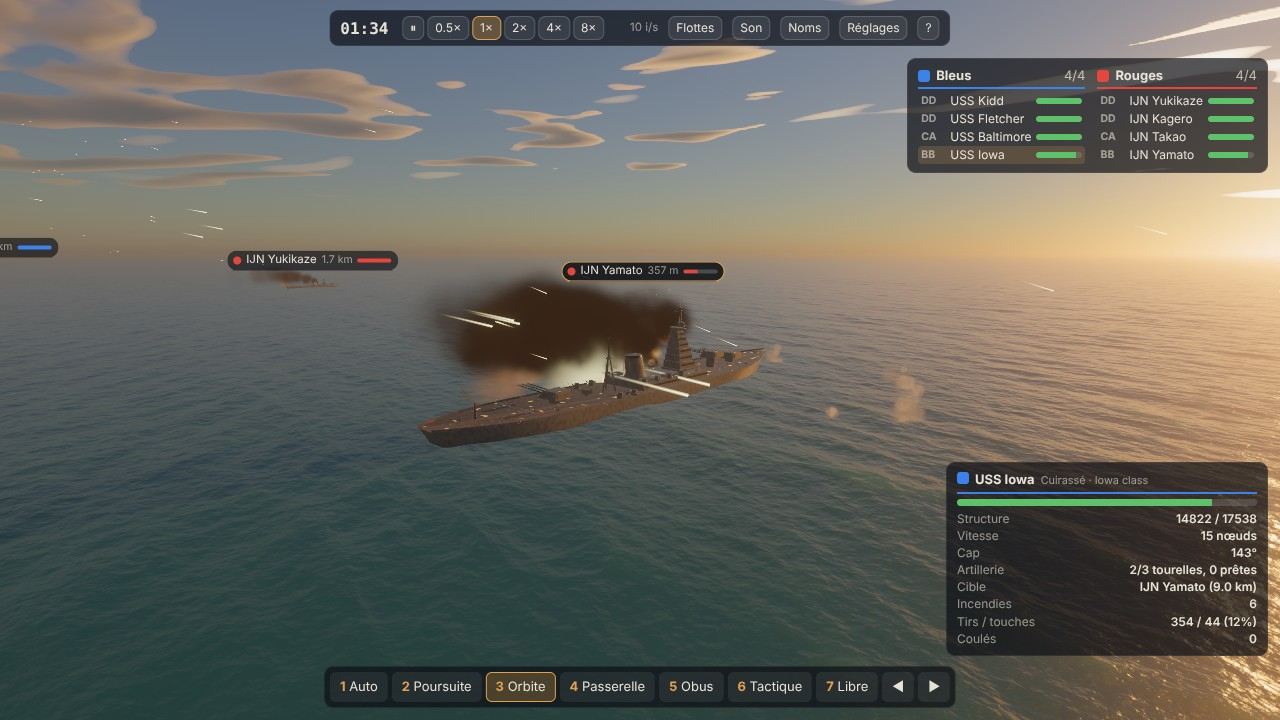
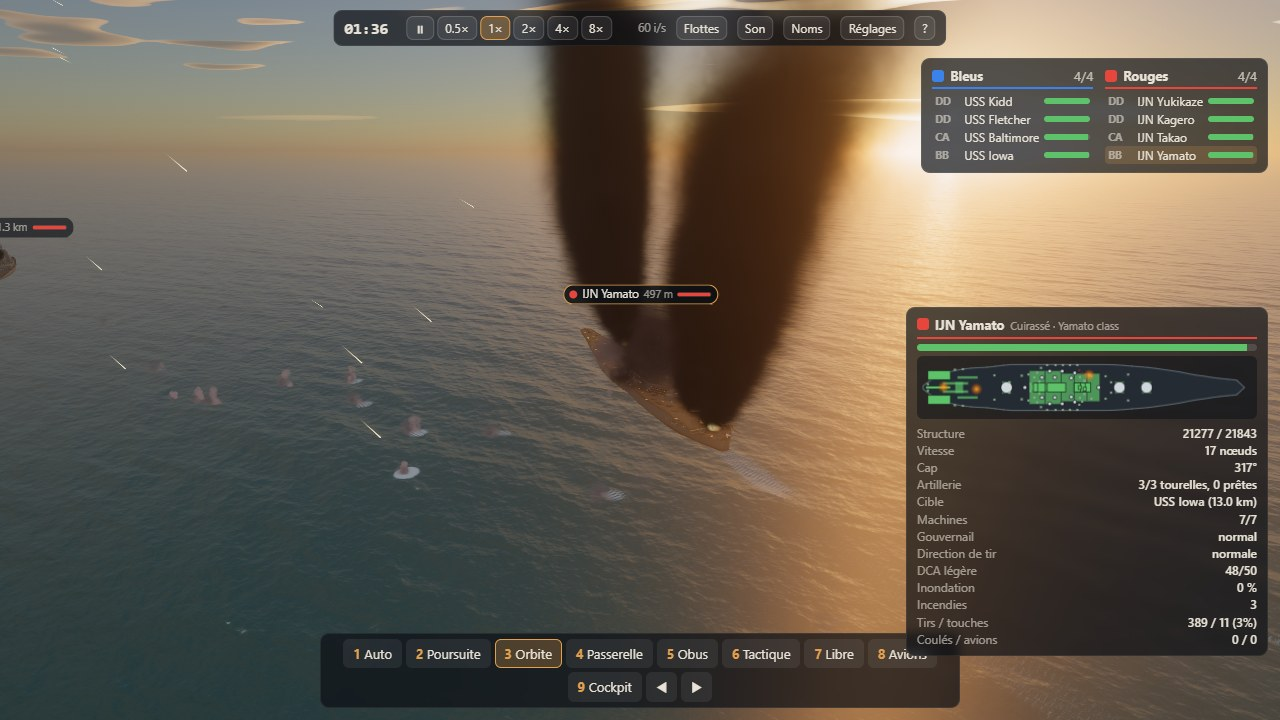
README pictures retaken with the 0.1.0 models (tools/screenshots.mjs)

diff --git a/README.md b/README.md
@@ -140,7 +140,7 @@ Chaque porte-avions embarque les appareils de sa nation, modélisés d'après le
 **Ju 87 Stuka** (avec sa sirène) et **Fi 167** (Allemagne), **LN.401** et **PL.10** (France), **Re.2001** (Italie).
 Les croiseurs et cuirassés ont aussi leur hydravion sur la catapulte (Kingfisher, Walrus, Arado 196...).
 
-| Les appareils (SBD, TBF, Swordfish, Stuka) | Torpilleur à basse altitude | DCA et fumée de combat |
+| Les appareils (SBD, TBF, Swordfish, Stuka) | Torpilleur à basse altitude | Bombardiers en piqué, DCA et fumée de combat |
 |---|---|---|
 | ![Appareils](docs/planes.jpg) | ![Torpilleur](docs/air.jpg) | ![DCA](docs/aa.jpg) |
 
@@ -159,7 +159,7 @@ Les croiseurs et cuirassés ont aussi leur hydravion sur la catapulte (Kingfishe
 
 ## Dégâts : là où ça touche
 
-| Cheminée détruite : l'épave remplace la pièce, qui vole en morceaux | Torpille : colonne d'eau contre la coque | Plan des dégâts du navire sélectionné |
+| Cheminées détruites sur le Norfolk : l'épave remplace la pièce | Torpille sur le Takao : colonne d'eau contre la coque | Plan des dégâts du navire sélectionné |
 |---|---|---|
 | ![Cheminée](docs/funnel.jpg) | ![Torpille](docs/torpedo.jpg) | ![Plan des dégâts](docs/damage-plan.jpg) |
 
@@ -185,7 +185,7 @@ lance-torpilles, catapultes, hangar, soute à essence et pont d'envol des porte-
 
 ## Explosions et naufrages
 
-| Explosion de munitions | Croiseur ravagé : cheminées détruites, incendies |
+| Explosion de munitions | Le croiseur Zara ravagé : cheminées détruites, incendies |
 |---|---|
 | ![Explosion](docs/explosion.jpg) | ![Dégâts](docs/damage.jpg) |
 

diff --git a/CHANGELOG.md b/CHANGELOG.md
@@ -6,7 +6,7 @@ All 30 ships and all the aircraft were compared with period drawings (ONI sheets
 batches (below): positions of turrets, torpedo mounts, funnels and masts were often 10-40 m off in 0.0.1; hulls, decks, superstructures, funnels, masts, screws, rudders,
 catapults and cranes follow the plans; new turret families measured per gun type; new muzzle blast and gunfire effects; aircraft tailplanes were half the real size. New tools:
 `tools/refs` (`check.mjs`, `silhouette.py`, `hull.py`, `grid.py`, `fit_decks.py`). A new trailer, `docs/trailer-v0.1.0.mp4` (89 s, 1920×1080, 60 frames per second: `?fps=60` in the recorder, two fleet actions, a roster of 26 ships, gunfire scenes), and a side-by-side comparison with the 0.0.1 one,
-`docs/comparatif-0.0.1-0.1.0.mp4` (the 0.0.1 scenes re-recorded with the 0.1.0 game, same seeds, side by side with the original trailer). The 0.0.1 trailer is kept.
+`docs/comparatif-0.0.1-0.1.0.mp4` (the 0.0.1 scenes re-recorded with the 0.1.0 game, same seeds, side by side with the original trailer). The 0.0.1 trailer is kept. The pictures of the README (`docs/*.jpg`) were retaken with the 0.1.0 models (`tools/screenshots.mjs` for the interface views).
 
 ### Batch 5 (the destroyers: Fletcher, Kagero, Tribal, Type 1936A, Le Fantasque, Soldati)
 

diff --git a/CLAUDE.md b/CLAUDE.md
@@ -39,6 +39,7 @@ Software rendering is slow: 10–25 s per frame at 800×450 with the ocean on; a
 | Simulation | `js/game/sim/` (world, ship, ai, aircraft, modules/damage, explosions); `test/` |
 | Trailer | `js/trailer*.js`, `tools/trailer/` (`record.mjs`, `assemble.mjs`, `edit.json`; needs ffmpeg), scene `firetest` films a salvo |
 | Reference photographs | `tools/refs/` (see its README) |
+| README pictures | `docs/*.jpg`: the interface ones from `tools/screenshots.mjs` (GPU), the others from the trailer scenes' frames and the preview scene (see CHANGELOG 0.1.0) |
 
 Useful URLs: `?scenario=duel&start=1&seed=3`, `?preview=iowa,yamato&offscreen=1&w=1280&h=720&parked=6&fov=38&ocean=0` with
 `window.__preview.set({ target, heading, dist, az, el, lookY, lookX })` (heading 90 = bow towards +x, az 180 = starboard profile), `?quality=low|medium|high`.
